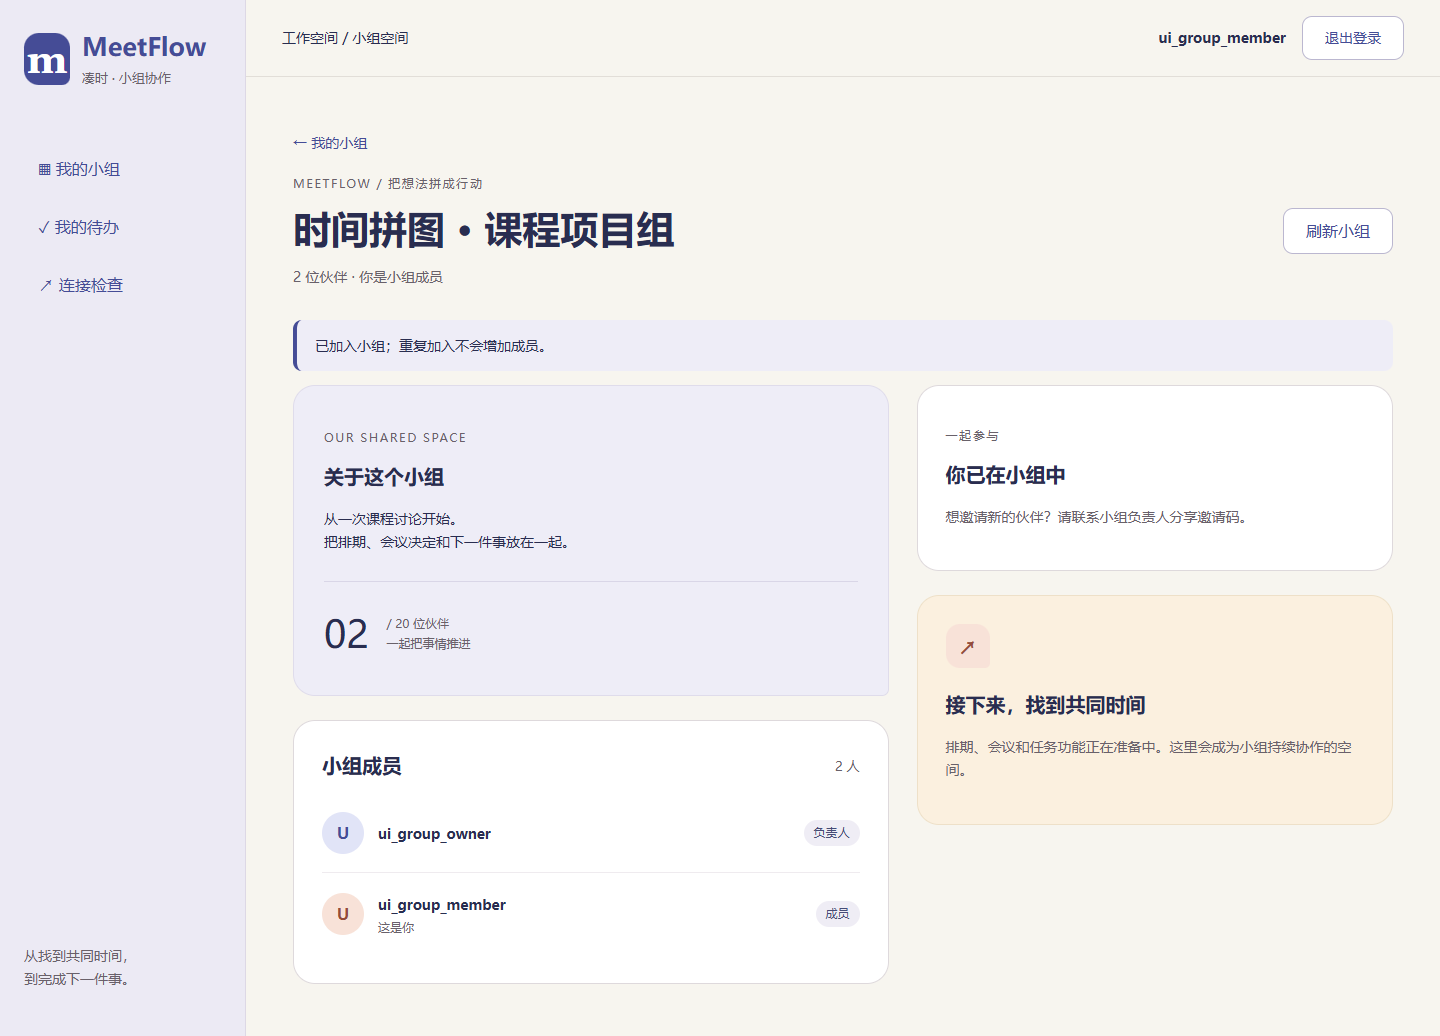
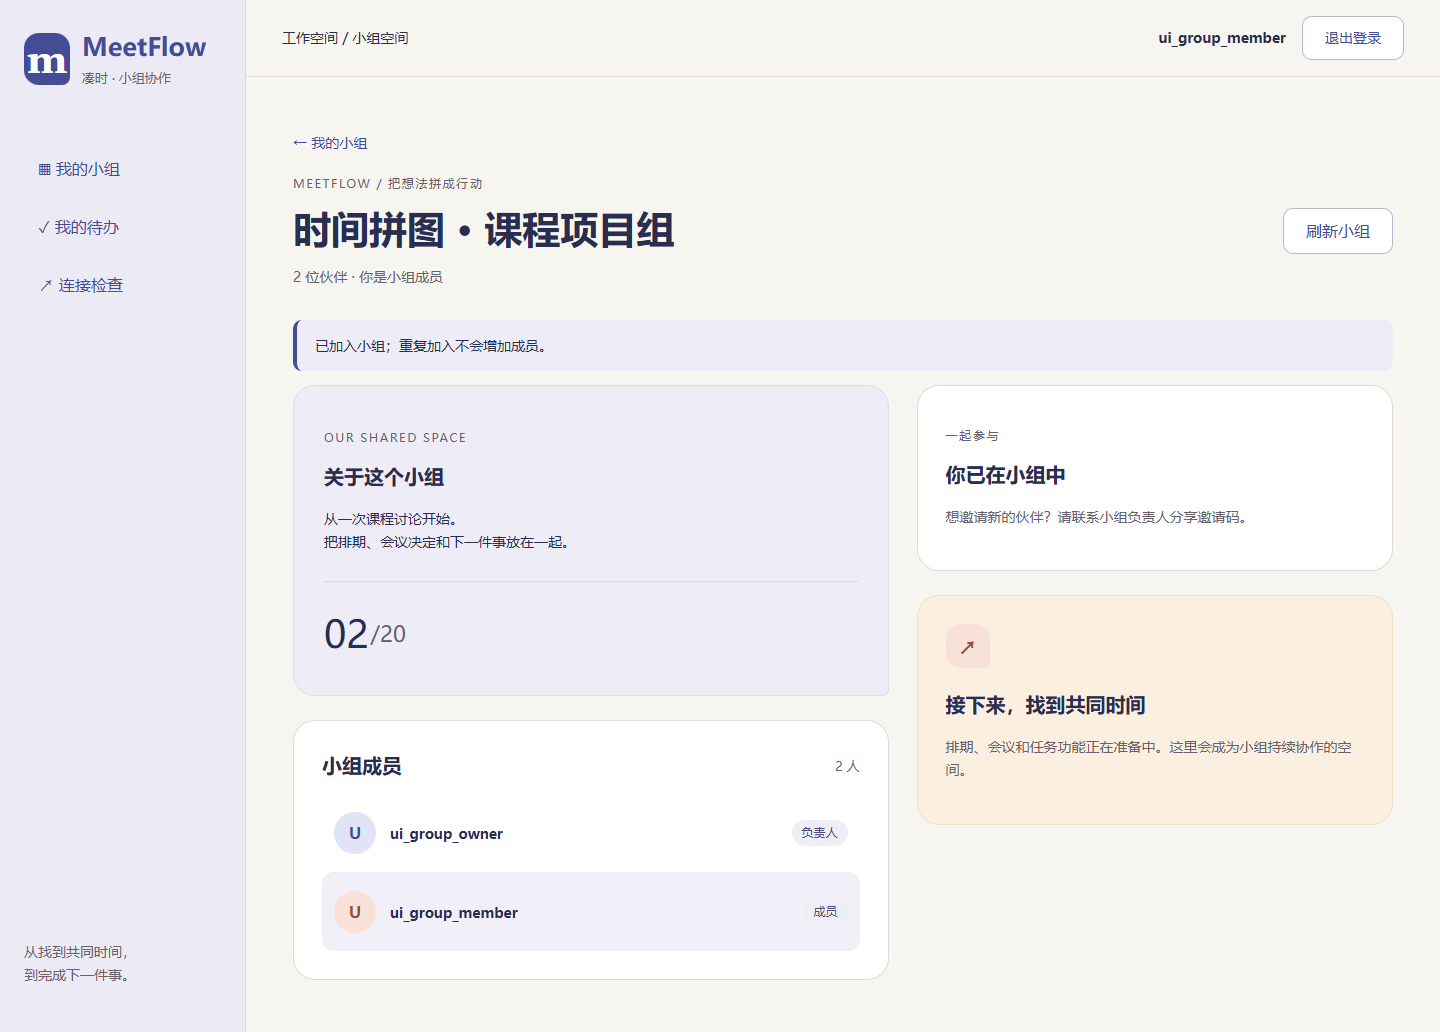
ui: simplify group count and highlight current member

diff --git a/Src/frontend/src/style.css b/Src/frontend/src/style.css
@@ -46,7 +46,7 @@
 .groups-layout{display:grid;grid-template-columns:minmax(0,1fr) minmax(300px,.72fr);gap:28px;align-items:start}.groups-list,.groups-layout>section,.group-detail-layout>div{min-width:0}.list-count{font-size:14px;margin:0 0 18px}.list-count span{display:block;color:var(--muted);font-size:12px}
 .group-form-card,.members-card,.invite-card,.member-guide{background:#fff;border:1px solid #ded9dc;border-radius:22px;padding:28px}.group-form-card fieldset{border:0;min-width:0;padding:0;margin:0}.group-form-card .eyebrow{margin:0 0 12px}.mode-switch{display:flex;padding:4px;background:#efedf5;border-radius:12px;gap:4px;margin-bottom:24px}.mode-switch button{flex:1;min-width:0;padding:9px 8px;background:transparent;color:var(--muted);font-size:14px}.mode-switch button[aria-pressed=true]{background:#fff;color:var(--brand);box-shadow:0 2px 6px #292d5010;font-weight:700}.retry-check{display:flex;align-items:start;gap:8px;margin-top:14px}.retry-check input{margin-top:6px;flex-shrink:0;accent-color:var(--brand)}
 .group-card{padding:28px;border:1px solid #ded9dc;background:#fff;border-radius:20px 20px 7px 20px;margin-bottom:18px}.group-card:nth-of-type(3n+1){background:#eeedf7}.group-card-top,.group-card-bottom,.section-heading{display:flex;align-items:center;justify-content:space-between;gap:12px}.group-card-top{margin-bottom:22px}.puzzle-label{display:grid;place-items:center;width:44px;height:44px;border-radius:14px 14px 5px 14px;background:#e1e4f7;color:var(--brand);font-size:20px;font-weight:700}.group-card:nth-of-type(2n) .puzzle-label{background:#f8e2d8;color:#954c39}.role-badge{font-size:12px;padding:3px 10px;background:#efedf5;color:#454c76;border-radius:20px;flex-shrink:0}.group-card h2{font-size:22px;line-height:1.5;margin-bottom:10px}.group-card h2 a{color:inherit;text-decoration:none}.group-card h2 a:hover{text-decoration:underline}.group-preview{display:-webkit-box;-webkit-line-clamp:3;-webkit-box-orient:vertical;overflow:hidden;white-space:pre-wrap;color:var(--muted);font-size:14px;min-height:46px;margin:0 0 24px}.group-card-bottom{border-top:1px solid #ded9dc;padding-top:18px;font-size:13px}.group-card-bottom a{text-decoration:none;font-weight:600}.group-card-bottom a:hover{text-decoration:underline}
-.pagination{display:flex;align-items:center;justify-content:center;flex-wrap:wrap;gap:12px;margin-top:24px;font-size:13px}.pagination button{font-size:13px;padding:8px 14px}.back-link{display:inline-block;margin-bottom:20px;font-size:14px;text-decoration:none}.group-detail-layout{display:grid;grid-template-columns:minmax(0,1.25fr) minmax(270px,1fr);gap:28px;align-items:start}.group-about{background:#eeedf7;border:1px solid #dfdceb;padding:30px;border-radius:22px 22px 7px 22px;margin-bottom:24px}.plain-text{white-space:pre-wrap;font-size:14px;max-height:420px;overflow:auto}.group-count{display:flex;gap:18px;align-items:center;margin-top:28px;border-top:1px solid #d9d6e7;padding-top:20px}.group-count strong{font-size:38px;font-weight:500}.group-count span{font-size:12px;color:var(--muted)}.section-heading{margin-bottom:12px}.section-heading h2{margin:0}.section-heading>span{font-size:13px;color:var(--muted)}.member-list{list-style:none;margin:0;padding:0}.member-list li{display:flex;align-items:center;gap:14px;border-top:1px solid #efebef;padding:18px 0}.member-list li:first-child{border:0}.member-list li>div{flex:1;min-width:0}.member-list strong{font-size:14px}.member-list small{display:block;color:var(--muted);font-size:12px}.member-avatar{width:42px;height:42px;flex-shrink:0;display:grid;place-items:center;border-radius:50%;background:#e1e4f7;color:var(--brand);font-weight:700}.member-list li:nth-child(2n) .member-avatar{background:#f8e2d8;color:#954c39}
+.pagination{display:flex;align-items:center;justify-content:center;flex-wrap:wrap;gap:12px;margin-top:24px;font-size:13px}.pagination button{font-size:13px;padding:8px 14px}.back-link{display:inline-block;margin-bottom:20px;font-size:14px;text-decoration:none}.group-detail-layout{display:grid;grid-template-columns:minmax(0,1.25fr) minmax(270px,1fr);gap:28px;align-items:start}.group-about{background:#eeedf7;border:1px solid #dfdceb;padding:30px;border-radius:22px 22px 7px 22px;margin-bottom:24px}.plain-text{white-space:pre-wrap;font-size:14px;max-height:420px;overflow:auto}.group-count{display:flex;gap:2px;align-items:center;margin-top:28px;border-top:1px solid #d9d6e7;padding-top:20px}.group-count strong{font-size:38px;font-weight:500}.group-count span{font-size:22px;color:var(--muted)}.section-heading{margin-bottom:12px}.section-heading h2{margin:0}.section-heading>span{font-size:13px;color:var(--muted)}.member-list{list-style:none;margin:0;padding:0}.member-list li{display:flex;align-items:center;gap:14px;border-top:1px solid #efebef;padding:18px 12px}.member-list li:first-child{border:0}.member-list li>div{flex:1;min-width:0}.member-list strong{font-size:14px}.member-list li.current-member{background:#f1eff8;border-radius:12px}.member-avatar{width:42px;height:42px;flex-shrink:0;display:grid;place-items:center;border-radius:50%;background:#e1e4f7;color:var(--brand);font-weight:700}.member-list li:nth-child(2n) .member-avatar{background:#f8e2d8;color:#954c39}
 .invite-display{display:block;width:100%;min-width:0;font:600 21px ui-monospace,monospace;letter-spacing:.08em;color:var(--brand);background:#f5f4f9;border:1px dashed #bbb7d0;border-radius:10px;padding:16px 12px;margin:8px 0 16px}.invite-display:focus-visible{outline:2px solid var(--brand);outline-offset:3px}.invite-actions{display:flex;flex-wrap:wrap;gap:12px;align-items:center}.invite-actions button{font-size:14px;padding:9px 14px}.next-step-card{padding:28px;background:#fbf0df;border:1px solid #eee0c8;border-radius:22px;margin-top:24px}.next-step-card .puzzle-label{background:#f8e2d8;color:#954c39;margin-bottom:20px}.success-note{background:#eeedf7;border-left:4px solid var(--brand);padding:14px 18px;border-radius:9px;font-size:14px}
 @media(max-width:1100px){.groups-layout,.group-detail-layout{grid-template-columns:minmax(0,1fr)}.group-form-card{order:-1}.group-detail-layout>div:last-child{display:grid;grid-template-columns:repeat(2,minmax(0,1fr));gap:18px}.next-step-card{margin:0}}
 @media(max-width:700px){.group-heading{align-items:start;flex-wrap:wrap}.group-heading button{font-size:13px;padding:8px 14px}.group-card,.group-form-card,.members-card,.invite-card,.member-guide,.group-about,.next-step-card{padding:22px}.group-detail-layout>div:last-child{grid-template-columns:minmax(0,1fr)}.groups-layout,.group-detail-layout{gap:20px}}

diff --git a/Src/frontend/src/views/GroupDetailPage.vue b/Src/frontend/src/views/GroupDetailPage.vue
@@ -16,6 +16,7 @@ const success = ref(typeof history.state.groupNotice === 'string' ? history.stat
 if (history.state.groupNotice) history.replaceState({ ...history.state, groupNotice: undefined }, '')
 const live = useGroupLifetime(() => false, () => pending.value)
 const owner = computed(() => group.value?.owner_id === session.state.user?.id)
+const orderedMembers = computed(() => [...members.value].sort((a, b) => Number(b.role === 'OWNER') - Number(a.role === 'OWNER')))
 const ready = computed(() => !!group.value && !loading.value && !readError.value && !pending.value)
 let reader: AbortController | undefined
 async function load() {
@@ -76,8 +77,8 @@ async function copy() {
   <p v-if="group && (loading || readError)" class="muted">下方是上次读取的内容；邀请码操作需重新读取成功后使用。</p>
   <p v-if="message" :role="writeError ? 'alert' : 'status'" class="form-summary" :class="{ uncertain }">{{ message }}<small v-if="writeError?.requestId">请求编号：{{ writeError.requestId }}</small><button v-if="uncertain" class="secondary" :disabled="loading || pending" @click="load">核对当前邀请码</button></p>
   <div v-if="group" class="group-detail-layout">
-    <div><section class="group-about"><p class="eyebrow">OUR SHARED SPACE</p><h2>关于这个小组</h2><p class="plain-text">{{ group.description || '还没有填写说明，从一次共同讨论开始吧。' }}</p><div class="group-count"><strong>{{ members.length.toString().padStart(2, '0') }}</strong><span>/ 20 位伙伴<br>一起把事情推进</span></div></section>
-      <section class="members-card"><div class="section-heading"><h2>小组成员</h2><span>{{ members.length }} 人</span></div><ul class="member-list"><li v-for="member in members" :key="member.user_id"><span class="member-avatar" aria-hidden="true">{{ member.username.slice(0, 1).toUpperCase() }}</span><div><strong>{{ member.username }}</strong><small v-if="member.user_id === session.state.user?.id">这是你</small></div><span class="role-badge">{{ member.role === 'OWNER' ? '负责人' : '成员' }}</span></li></ul></section>
+    <div><section class="group-about"><p class="eyebrow">OUR SHARED SPACE</p><h2>关于这个小组</h2><p class="plain-text">{{ group.description || '还没有填写说明，从一次共同讨论开始吧。' }}</p><div class="group-count" :aria-label="`小组成员${members.length}人，上限20人`"><strong>{{ members.length.toString().padStart(2, '0') }}</strong><span>/20</span></div></section>
+      <section class="members-card"><div class="section-heading"><h2>小组成员</h2><span>{{ members.length }} 人</span></div><ul class="member-list"><li v-for="member in orderedMembers" :key="member.user_id" :class="{ 'current-member': member.user_id === session.state.user?.id }" :aria-label="member.user_id === session.state.user?.id ? `${member.username}，当前登录成员` : undefined"><span class="member-avatar" aria-hidden="true">{{ member.username.slice(0, 1).toUpperCase() }}</span><div><strong>{{ member.username }}</strong></div><span class="role-badge">{{ member.role === 'OWNER' ? '负责人' : '成员' }}</span></li></ul></section>
     </div>
     <div><section v-if="owner" class="invite-card"><p class="eyebrow">邀请伙伴，补齐拼图</p><h2>小组邀请码</h2><p class="muted">分享给同学，登录后即可加入。{{ group.member_count >= 20 ? '目前已满20人。' : `还可加入${20 - group.member_count}人。` }}</p>
       <label for="current-invite" class="form-help">{{ uncertain || readError || loading ? '上次读取的邀请码（待核对）' : '当前邀请码' }}</label><input id="current-invite" ref="selectedCode" class="invite-display" readonly :value="uncertain || readError || loading ? '' : group.invite_code" :placeholder="uncertain || readError || loading ? '请先重新读取' : ''" :aria-label="uncertain ? '邀请码待核对' : '当前邀请码'">

diff --git a/Docs/24-小组页面与交互验证.md b/Docs/24-小组页面与交互验证.md
@@ -14,6 +14,8 @@
 
 ## 验证
 
+2026-10-27界面微调：人数简化为“01/20”；负责人固定置顶，其余成员保持读取顺序。移除“这是你”，本人整行使用浅紫底色，并保留无障碍名称。浏览器回归使用倒序成员响应确认负责人仍置顶，同时检查本人高亮与简约人数。
+
 前端116项（新增37项）及TypeScript/Vite构建通过，后端225项、仓库32项回归通过。Chrome、Edge正式构建和Chrome开发代理通过真实浏览器交互：创建/入组、422/404/409、重复点击、成员权限、重置确认/旧码、复制与失败后手动复制、三类不确定写结果、分页/断网、旧读取取消、未保存离开、过期后换账号、纯文本及400～1440宽度。
 
 浏览器测试显式迁移临时数据库，模拟数据与故障仅存在于测试上下文，不写开发数据库。复制检查使用受控剪贴板替身，不覆盖本机剪贴板。复现：在 `Src/frontend` 执行 `npm test`、`npm run build`、`npm run check:groups-ui`；开发代理执行 `node browser.check.mjs --groups-ui --auth-ui`。浏览器环境见[前端说明](../Src/frontend/README.md)。
